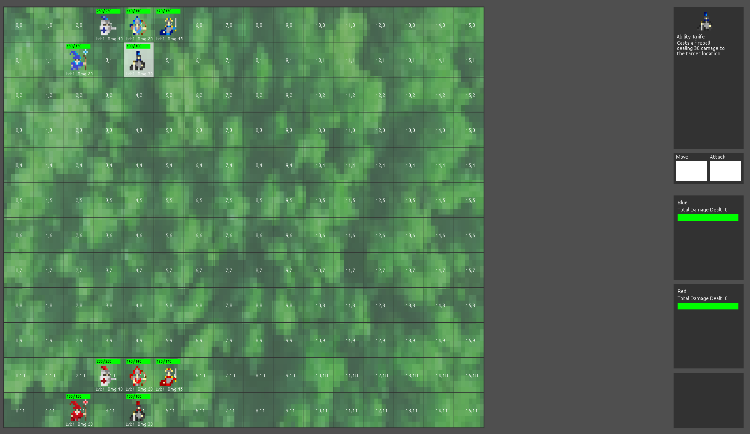
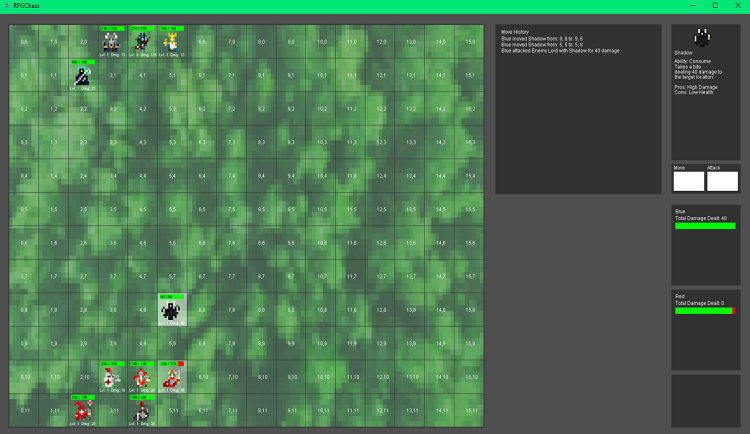
Career fair update
pictures and some text

diff --git a/index.html b/index.html
@@ -42,7 +42,7 @@
             <a class="nav-link py-3 px-0 px-lg-3 rounded js-scroll-trigger" href="#project">Projects</a>
           </li>
           <li class="nav-item mx-0 mx-lg-1">
-            <a class="nav-link py-3 px-0 px-lg-3 rounded js-scroll-trigger" href="https://github.com/yshneyderman/yshneyderman.github.io/raw/master/Yefim%20Shneyderman%20Resume.pdf">Resume</a>
+            <a class="nav-link py-3 px-0 px-lg-3 rounded js-scroll-trigger" href="https://github.com/yshneyderman/yshneyderman.github.io/raw/master/Yefim%20Shneyderman%20Resume.pdf"><i class="fa fa-download" aria-hidden="true"></i> Resume</a>
           </li>
         </ul>
       </div>
@@ -89,9 +89,9 @@
           <p class="lead">I'm a junior Computer Science and Mathematics Major at the University of Massachusetts Amherst.</p>
 
             <p class="lead">As a student I am very passionate about learning and love using technology to solve problems around me.</p>
-            
+
             <p class="lead">I'm very interested in learning about and working on UX/UI development, graphic design, security, software development, and artificial intelligence. I am looking for internships to help learn more useful skills and expand on my interests!</p>
-            
+
             <p class="lead">In my free time I like coding, hiking, painting, listening to music, reading, swimming, badminton, and watching my favorite movies.</p>
             <br>
             <div class="row">
@@ -132,19 +132,21 @@
       <div class="row">
         <div class="col-lg-42 mr-auto">
           <p class="lead">Programming</p>
-          <p class="lead"><ul>Experience programming with: Java (advanced), JavaScript (intermediate), C (intermediate), Python (beginner)</ul></p>
+          <p class="lead"><ul>Experience programming with: Java (3 Yrs), JavaScript (2 Yrs), C (1 Yr), Python (1 Yr)</ul></p>
           <p class="lead">Technologies</p>
           <p class="lead:"><ul>Data Structures, JUnit Testing, Image Processing, Networking, GUIs, Threads/Processes, HTML, CSS, Linux</ul></p>
           <p class="lead">Coursework</p>
-          <p class="lead"><ul>Computer Science: Intro to Problem Solving with Computers, Programming with Data Structures, Intro to Computation, Programming Methodology, Computer Systems Principles, Reasoning Under Uncertainty, Intro to Algorithms, Artificial Intelligence, Web Development,</ul></p>
-          <p class="lead"><ul>Mathematics: Calculus (I, II, and III), Physics I & II, Intro to Linear Algebra, Statistics I, Differential Equations, Intro to Abstract Algebra I</ul></p>
+          <p class="lead"><ul><b>Computer Science: </b>Intro to Problem Solving with Computers, Programming with Data Structures, Intro to Computation, Programming Methodology, Computer Systems Principles, Reasoning Under Uncertainty, Intro to Algorithms, Artificial Intelligence, Web Development,</ul></p>
+          <p class="lead"><ul><b>Mathematics: </b>Calculus (I, II, and III), Physics I & II, Intro to Linear Algebra, Statistics I, Differential Equations, Intro to Abstract Algebra I</ul></p>
         </div>
         <div class="col-lg-42 ml-auto">
-            
+
             <p class="lead">Videography and Design</p>
-            <p class="lead"><p><ul>Advanced: Premiere Pro, Final Cut Pro X (Video Editing), Photoshop (Graphic Design), Microsoft Office Suite</ul></p>
-            <p class="lead"><ul>Intermediate: Illustrator (Graphic Design), After Effects (Visual Effects and Animation), HTML (Web Design)</ul></p>
-            <p class="lead"><ul>Beginner: InDesign (Page Design), XD (UX/UI Design), Audition (Audio)</ul></p>
+            <p class="lead"><p><ul>I have 7 years of experience in Videography and Graphic Design through self learning and my volunteering at North Andover CAM.</ul></p>
+            <p class="lead"><p><ul>Alongside my skills with camcorders, GoPro, DSLR cameras, lighting, directing, technical directing, audio, script writing, and storyboarding, I also have experience with: </ul></p>
+            <p class="lead"><p><ul><b>Advanced: </b>Premiere Pro, Final Cut Pro X (Video Editing), Photoshop (Graphic Design), Illustrator (Graphic Design), Microsoft Office Suite</ul></p>
+            <p class="lead"><ul><b>Intermediate:</b> After Effects (Visual Effects and Animation), Lightroom (Photography)</ul></p>
+            <p class="lead"><ul><b>Beginner: </b>InDesign (Page Design), XD (UX/UI Design), Audition (Audio)</ul></p>
           </div>
       </div>
 
@@ -444,7 +446,7 @@
                 <p class="mb-5">Project for CS220 to write a basic interpreter for a small amount of JavaScript in JavaScript. Were provided a parser function and implemented functions for evaluating expressions such as addition, subtraction, multiplication, boolean expressions, etc. Interpreter also works for basic blocks, statements, and mini programs.</p>
                 <p class="mb-5">Rapidly-Exploring Random Trees</p>
                 <p class="mb-5">Project for CS220 to implement helper functions in JavaScript to assist a RRT algorithm in finding collision-free paths in 2-dimensional space.</p>
-                
+
               </div>
             </div>
           </div>
@@ -485,7 +487,7 @@
                 <p class="mb-5">Project for CS230 to implement a program using threads and semaphores in C to simulate a ticket ordering call center with 5 lines and 3 operators so that any number of callers can call and wait until they connect to operator and buy a ticket.</p>
                 <p class="mb-5">Math Bot</p>
                 <p class="mb-5">Project for CS230 to write a computer networking client to connect to remote server in C and automatically answer a series of math problems by sending and recieving problems and solutions to the server until we are sent a flag that indicates the end of the program.</p>
-               
+
               </div>
             </div>
           </div>
@@ -516,7 +518,12 @@
                 <!-- Portfolio Modal - Image -->
                 <img class="img-fluid rounded mb-5" src="./img/portfolio/RPGChess.png" alt="">
                 <!-- Portfolio Modal - Text -->
-                <p class="mb-5">Working on an individual long term project of a turn based combat game with a 12x16 board in Java. Now features 15 playable pieces and option to select 10 pieces for a team.</p>
+                <p class="mb-5">Uses java.awt and javax.swing as GUI. 
+                  RPGChess is a game that I am working on independently to be similar to chess (a beloved classic) that I wanted to make more complex and modern.</p>
+                <!-- Portfolio Modal - Image -->
+                <img class="img-fluid rounded mb-5" src="./img/portfolio/TeamSelect.png" alt="">
+                <p class="mb-5">
+                  The game features 5 selectable classes (caster, ranged, warrior, rogue, and champion) and 15 different playable characters for a player vs. player turn based chess-style rpg game. Players will select which pieces they want to use in the game and play an opponent to level the pieces up and unlock improved stats and abilities. In the game, move your pieces around the board on your turn and attack your opponent's pieces until they have none remaining.</p>
                 <button class="btn btn-primary" onclick=" window.open('https://github.com/yshneyderman/RPGChess','_blank')">
                   <i class="fab fa-fw fa-github"></i>
                   GitHub Repository
@@ -559,7 +566,7 @@
         </div>
       </div>
     </div>
-  
+
   <!-- Bootstrap core JavaScript -->
   <script src="vendor/jquery/jquery.min.js"></script>
   <script src="vendor/bootstrap/js/bootstrap.bundle.min.js"></script>
